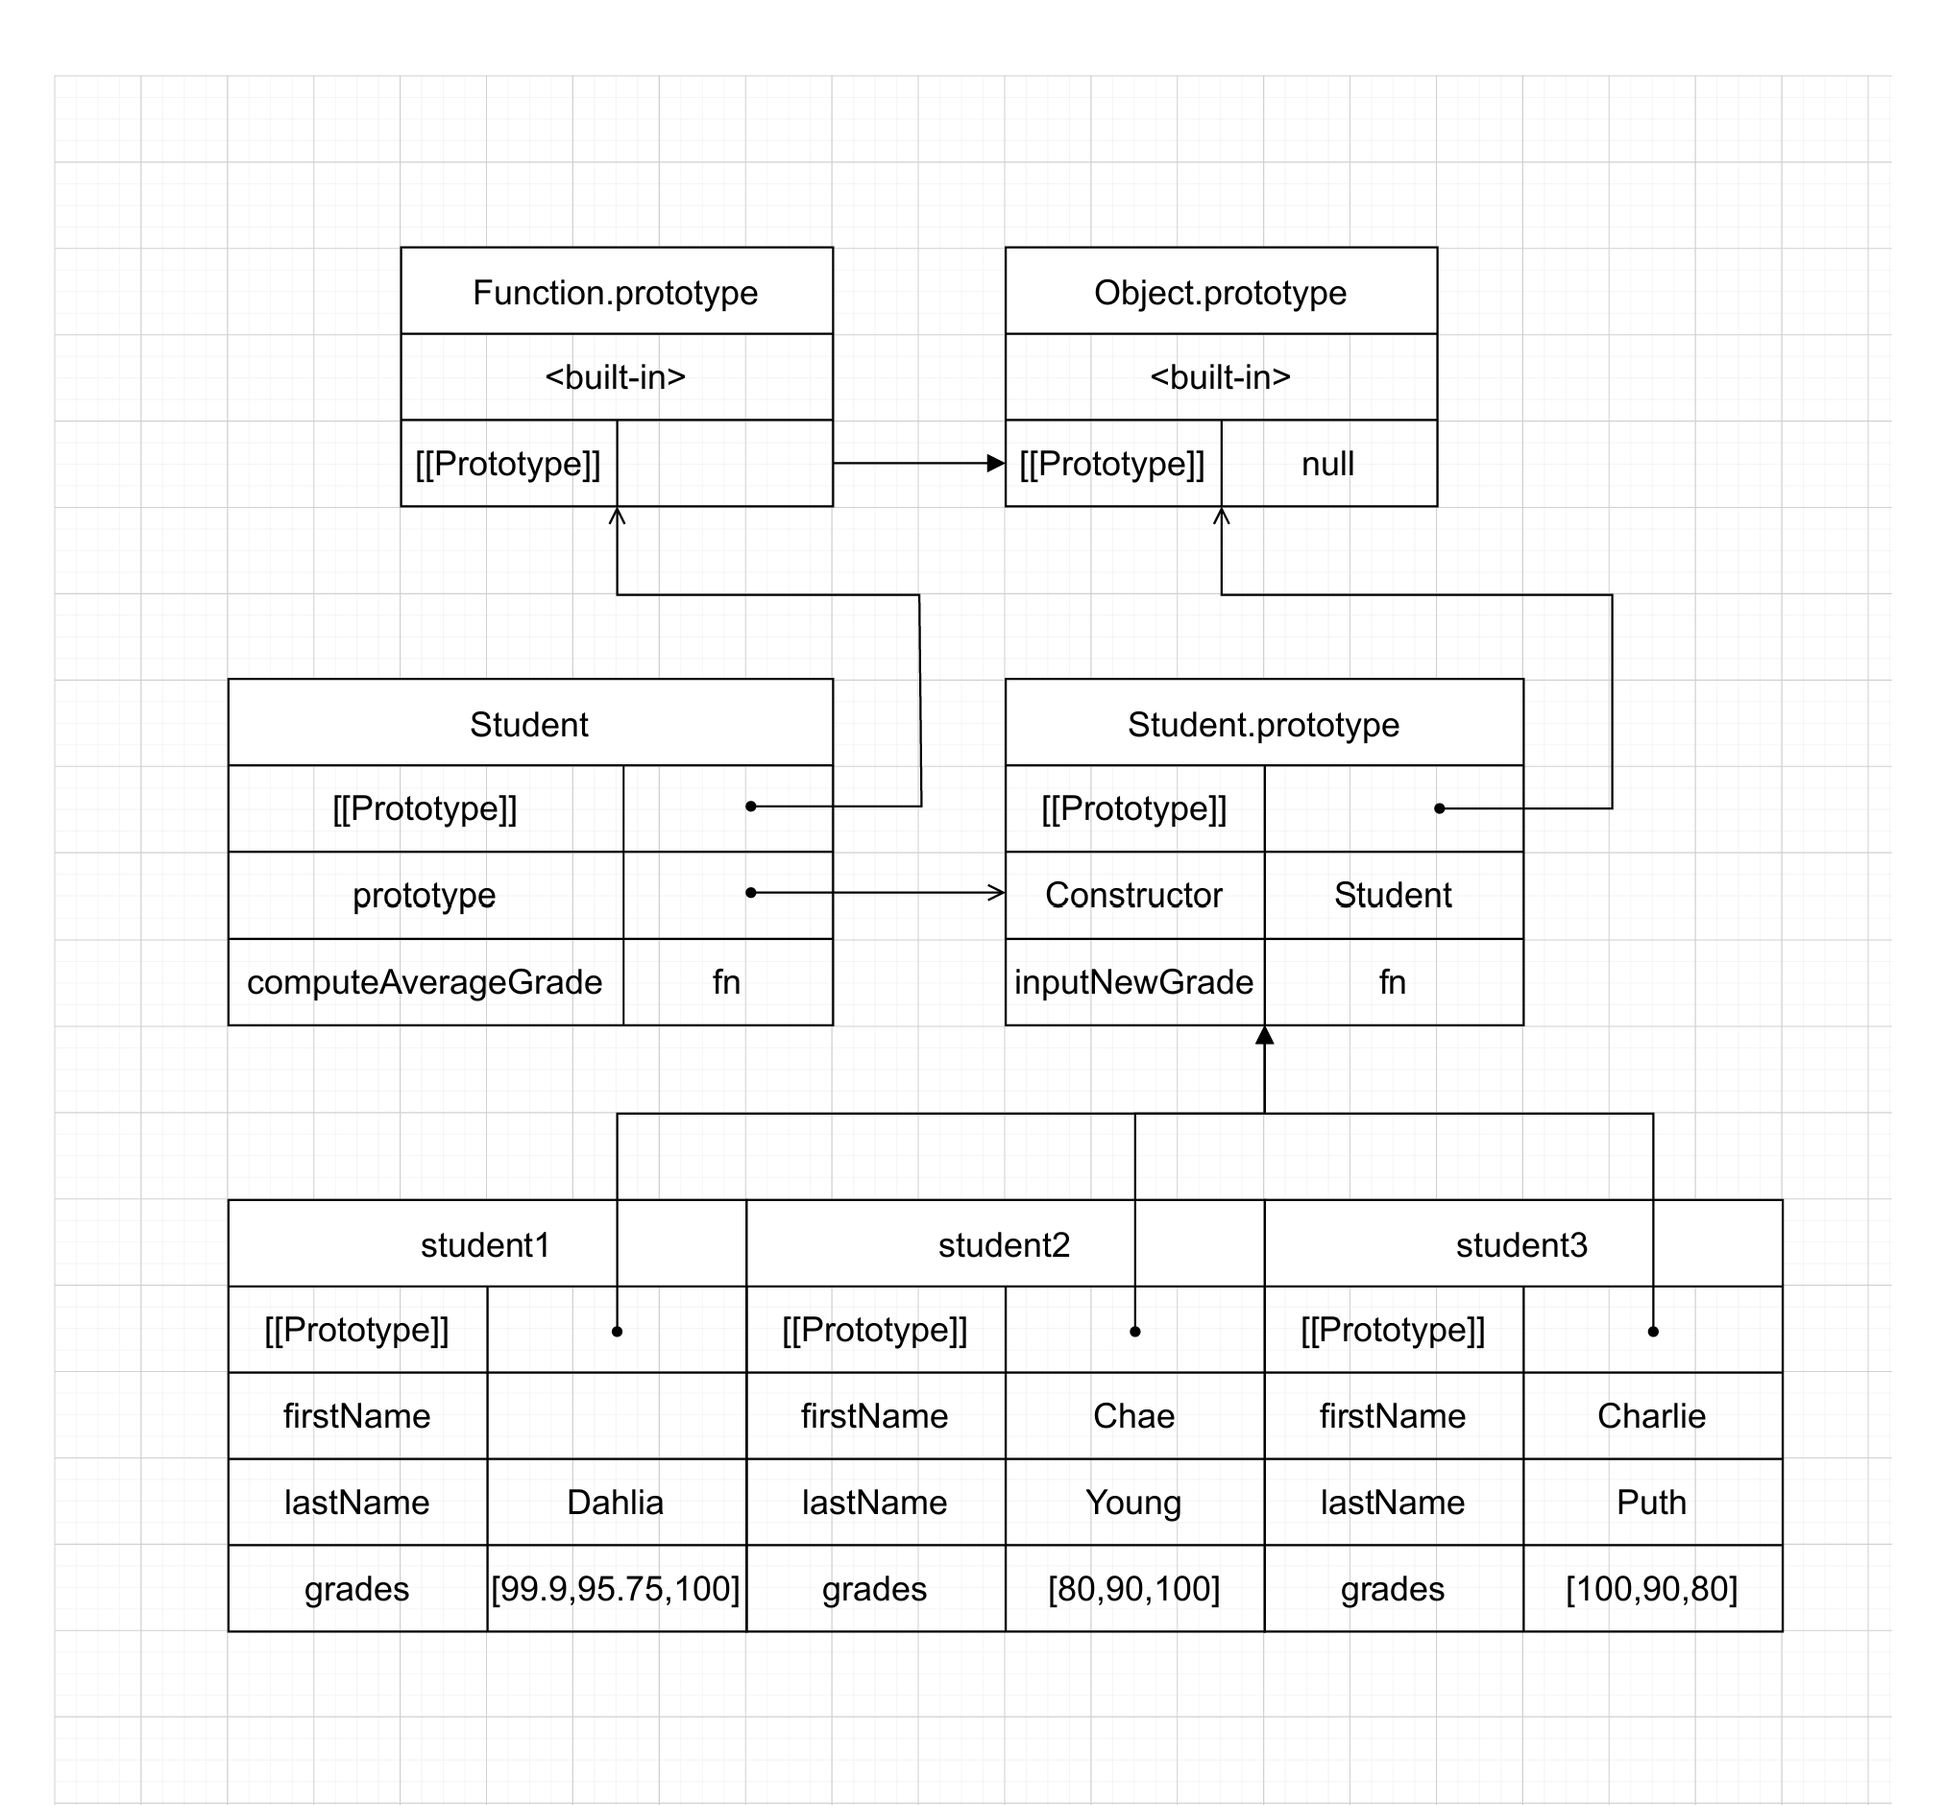
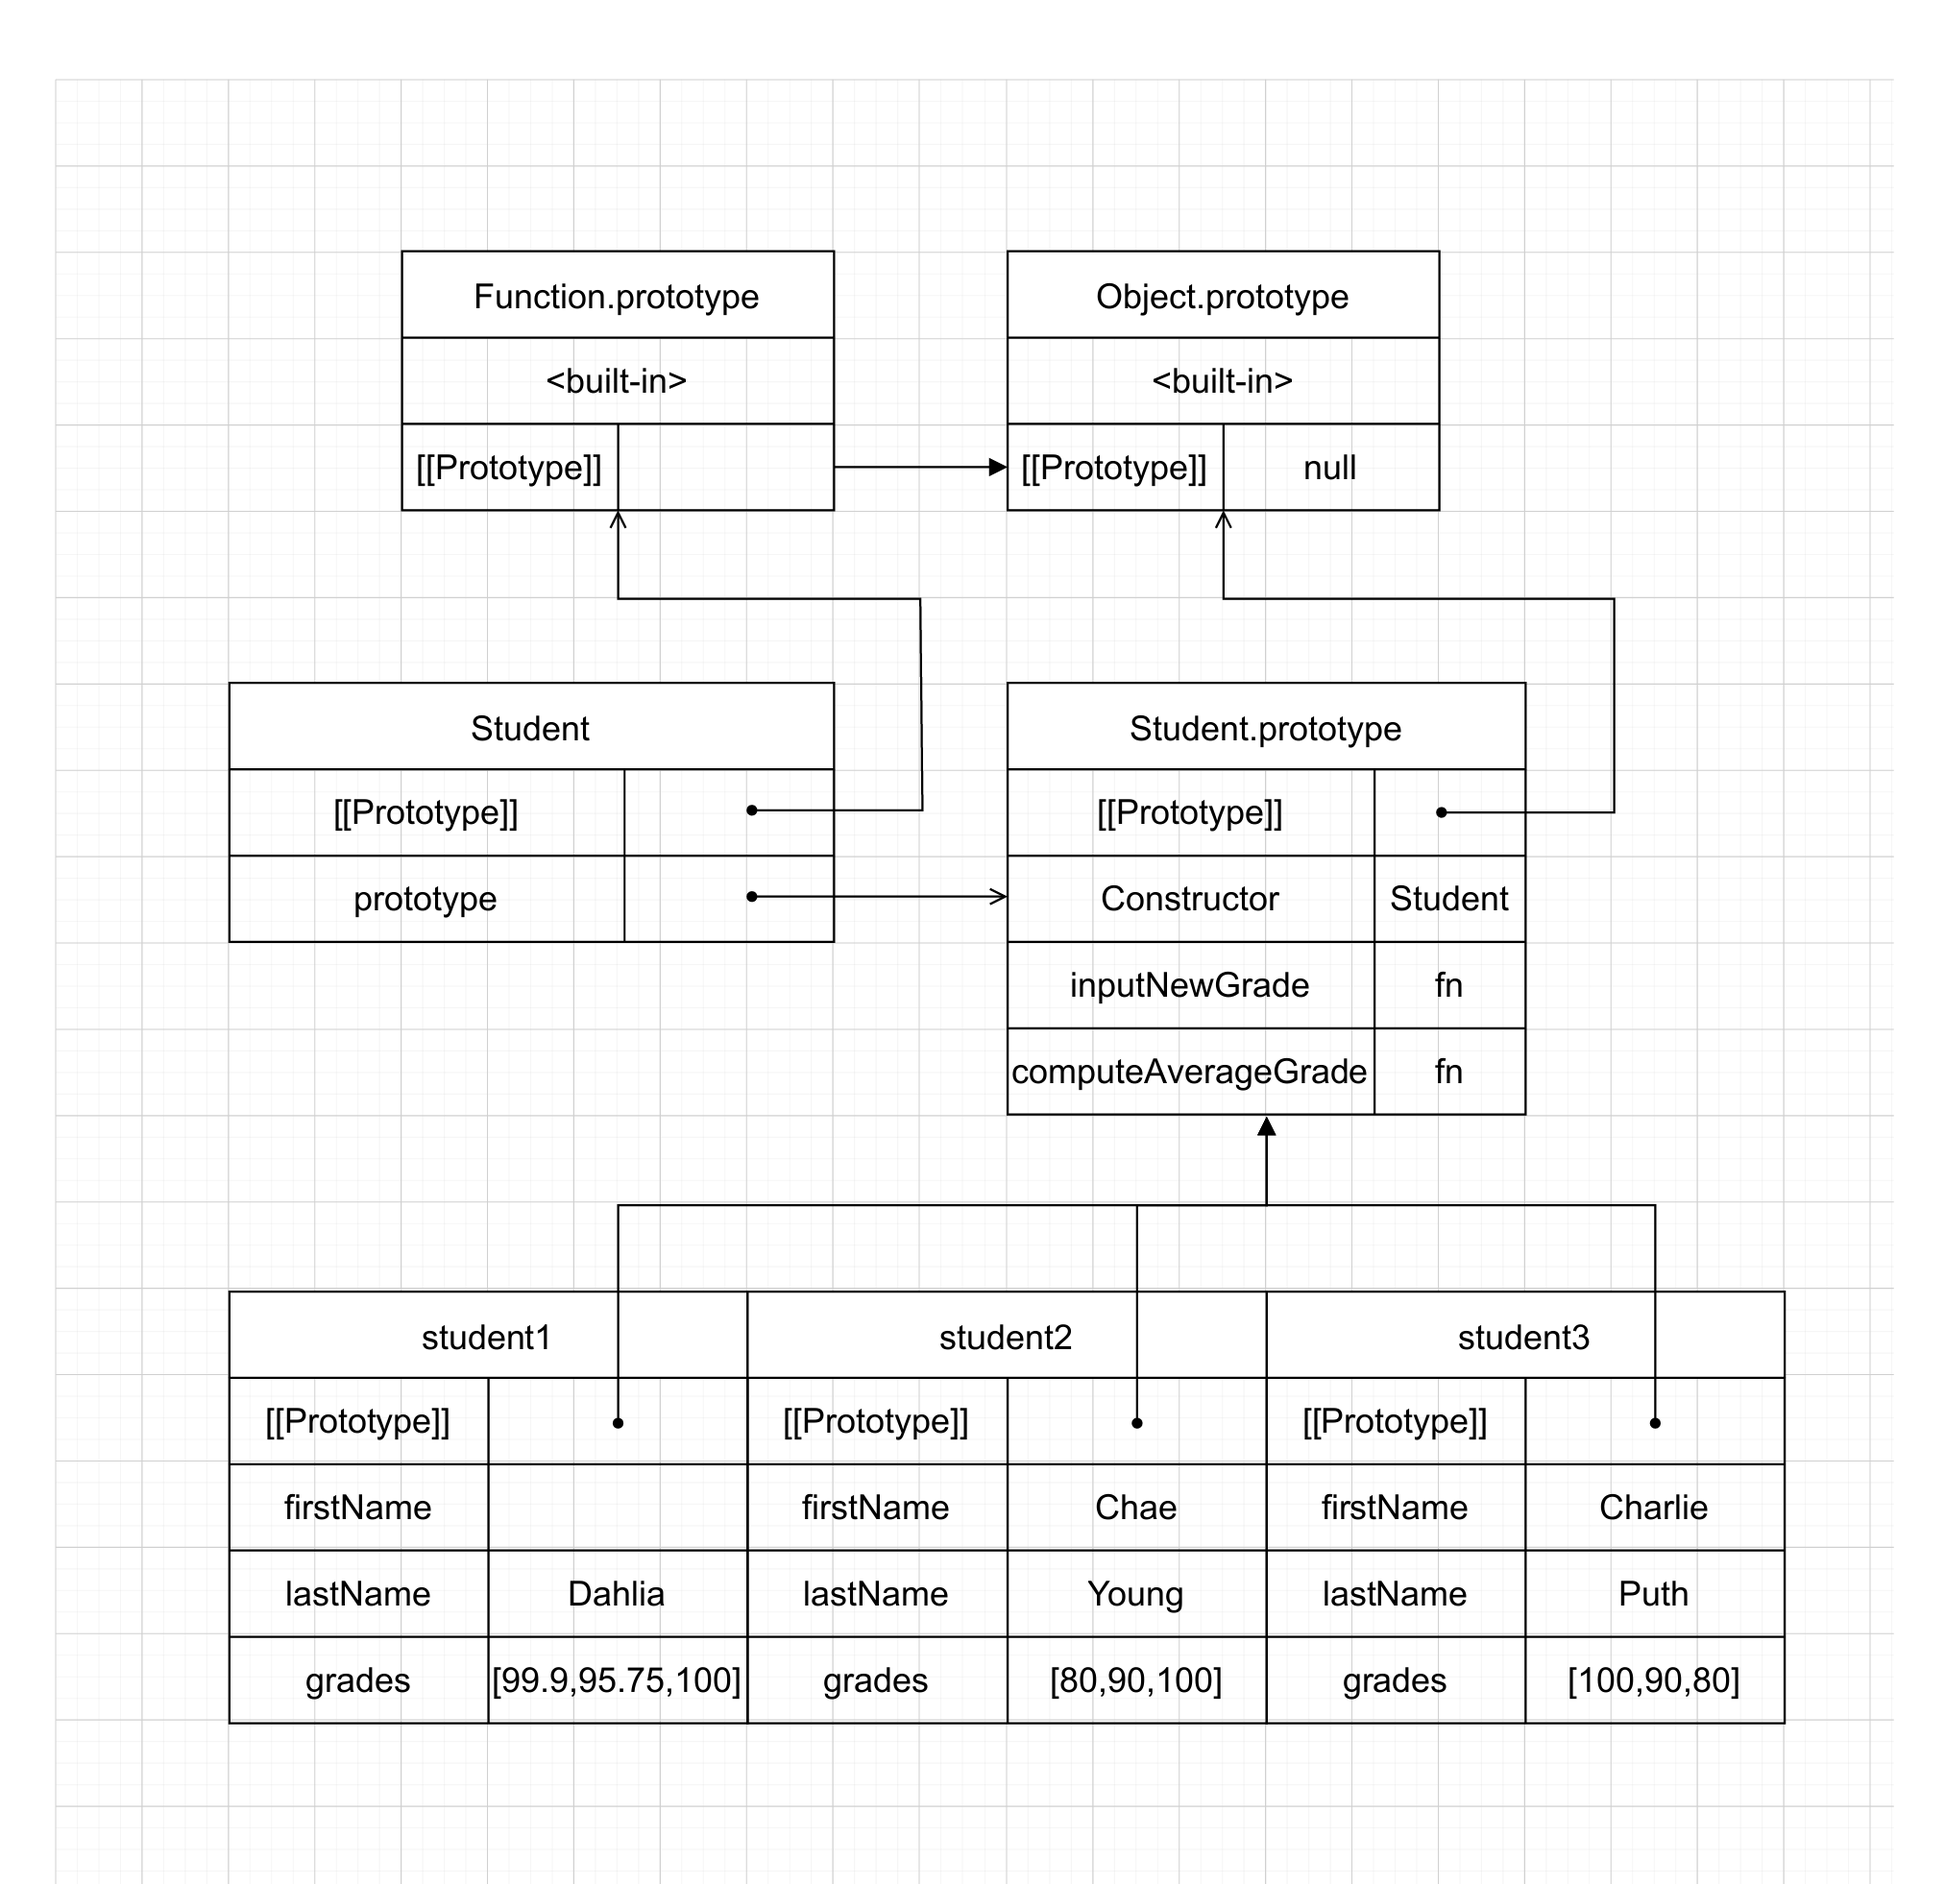
"revision"

Changed region(s): [[0.1244, 0.1234, 0.9333, 0.9255], [0.1244, 0.3702, 0.4356, 0.5553]]

diff --git a/lab6/exe2.js b/lab6/exe2.js
@@ -1,34 +1,28 @@
 'use strict'
-function Student(firstName, lastName, grades) {
+function Student(firstName, lastName, grades = []) {
     this.firstName = firstName,
-    this.lastName = lastName,
-    this.grades = grades
+        this.lastName = lastName,
+        this.grades = grades
 }
 
 Student.prototype.inputNewGrade = function (newGrade) {
     this.grades.push(newGrade);
 }
 
-Student.computeAverageGrade = function (students) {
-    let total = 0;
-    let count = 0;
-    for (const s of students) {
-        const sum = s.grades.reduce((acc, g) => acc + g, 0);
-        total += sum;
-        count += s.grades.length;
-    }
-    return count === 0 ? 0 : total / count;
+Student.prototype.computeAverageGrade = function () {
+    return this.grades.reduce((acc, g, index, array) => acc + g / array.length, 0);
 };
 
 let student1 = new Student("", "Dahlia", [99.9, 95.75]);
 let student2 = new Student("Chae", "Young", [80, 100]);
-let student3 = new Student("Charlie", "Puth", [100, 90]);
+let student3 = new Student("Charlie", "Puth");
 student1.inputNewGrade(100);
 student2.inputNewGrade(90);
+student3.inputNewGrade(100);
+student3.inputNewGrade(90);
 student3.inputNewGrade(80);
-
 let students = [student1, student2, student3];
 console.log(students);
 
-let avg = Student.computeAverageGrade(students);
-console.log("Average grade:", avg.toFixed(2));
+let avg = students.reduce((acc, s, i, arr) => acc + s.computeAverageGrade() / arr.length, 0);
+console.log("Average grade:", avg);

diff --git a/lab6/exe3.js b/lab6/exe3.js
@@ -4,12 +4,12 @@ function Animal(name, speed) {
     this.speed = speed;
 }
 
-Animal.prototype.run = function () {
-    return ++this.speed;
+Animal.prototype.run = function (speed) {
+    return this.speed += speed;
 }
 
 Animal.compareBySpeed = function (a1, a2) {
-    return a1.speed-a2.speed;
+    return a1.speed - a2.speed;
 }
 
 function Rabbit(name, speed) {
@@ -17,24 +17,24 @@ function Rabbit(name, speed) {
 }
 
 Rabbit.prototype.hide = function () {
-    console.log(this.name,"hides");
+    console.log(this.name, "hides");
 }
 
 Object.setPrototypeOf(Rabbit.prototype, Animal.prototype);
 Object.setPrototypeOf(Rabbit, Animal)
 
 let rabbit = new Rabbit("Pokkie", 10);
-console.log(rabbit.name);
-console.log(rabbit.speed);
+console.log(rabbit.name, rabbit.speed);
 rabbit.hide();
-rabbit.run();
-rabbit.run();
-rabbit.run();
-rabbit.run();
-rabbit.run();
-console.log(rabbit.speed);
+rabbit.run(5);
+rabbit.run(10);
+rabbit.run(2);
+console.log(`${rabbit.name} hide ran with speed ${rabbit.speed}`);
 
 let rabbit2 = new Rabbit("Bobby", 8);
+console.log(rabbit2.name, rabbit2.speed);
 let rabbit3 = new Rabbit("Cotton", 13);
+console.log(rabbit3.name, rabbit3.speed);
 let rabbits = [rabbit, rabbit2, rabbit3];
-console.log(rabbits.sort(Rabbit.compareBySpeed));
+console.log("Rabbits order by speed: ");
+rabbits.sort(Rabbit.compareBySpeed).forEach((r,index)=>console.log(`${++index}. ${r.name} - speed ${r.speed}`));

diff --git a/lab6/exe1.js b/lab6/exe1.js
@@ -34,11 +34,5 @@ student3.inputNewGrade(80);
 let students = [student1, student2, student3];
 console.log(students);
 
-let total = 0;
-let count = 0;
-for (const s of students) {
-    total += s.computeAverageGrade();
-    count++;
-}
-const avg = total / count;
+const avg = students.reduce((acc, s) => acc + s.computeAverageGrade(), 0) / students.length;
 console.log("Average grade:", avg.toFixed(2));
